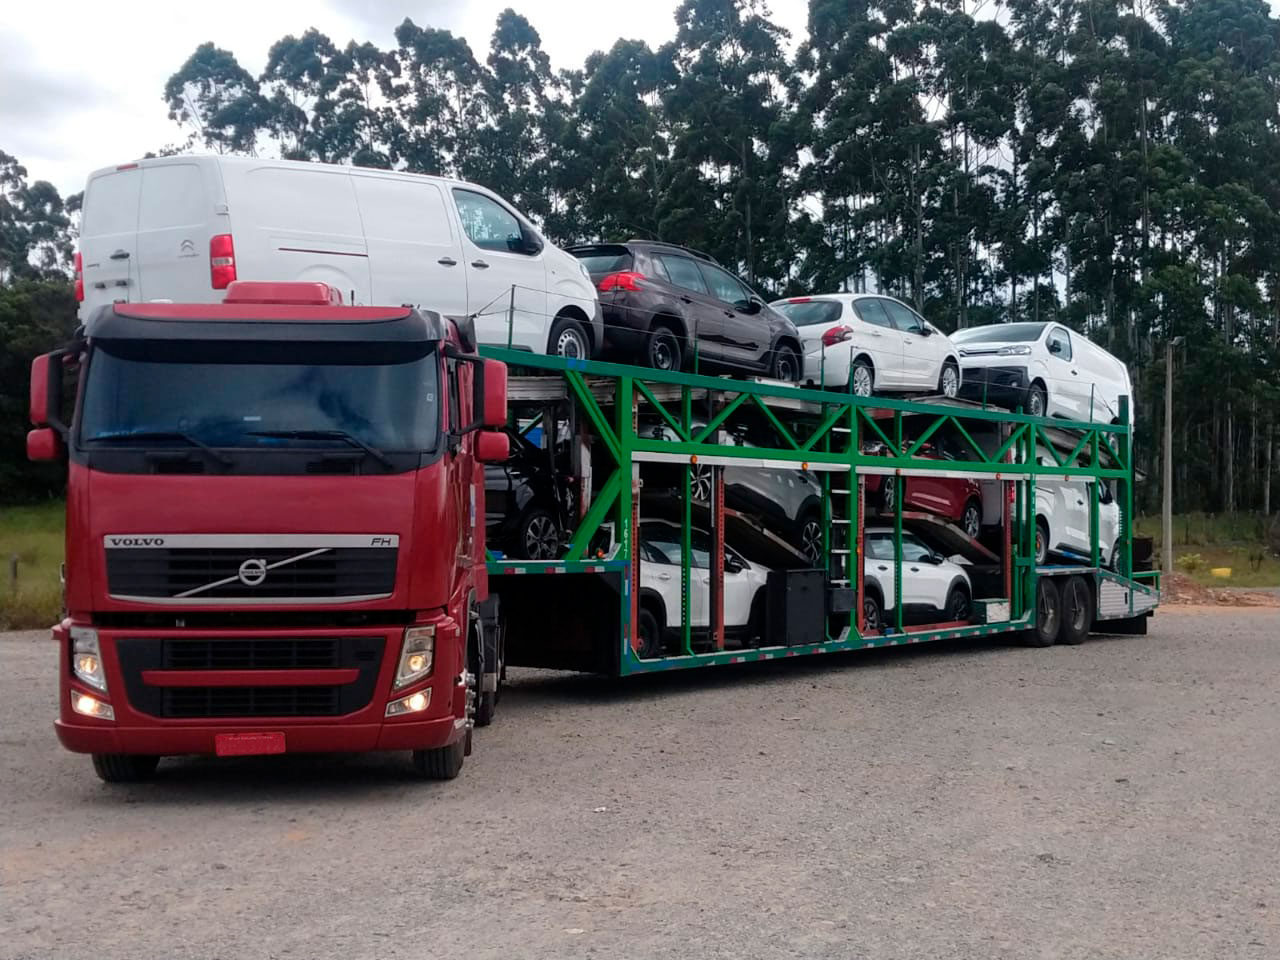
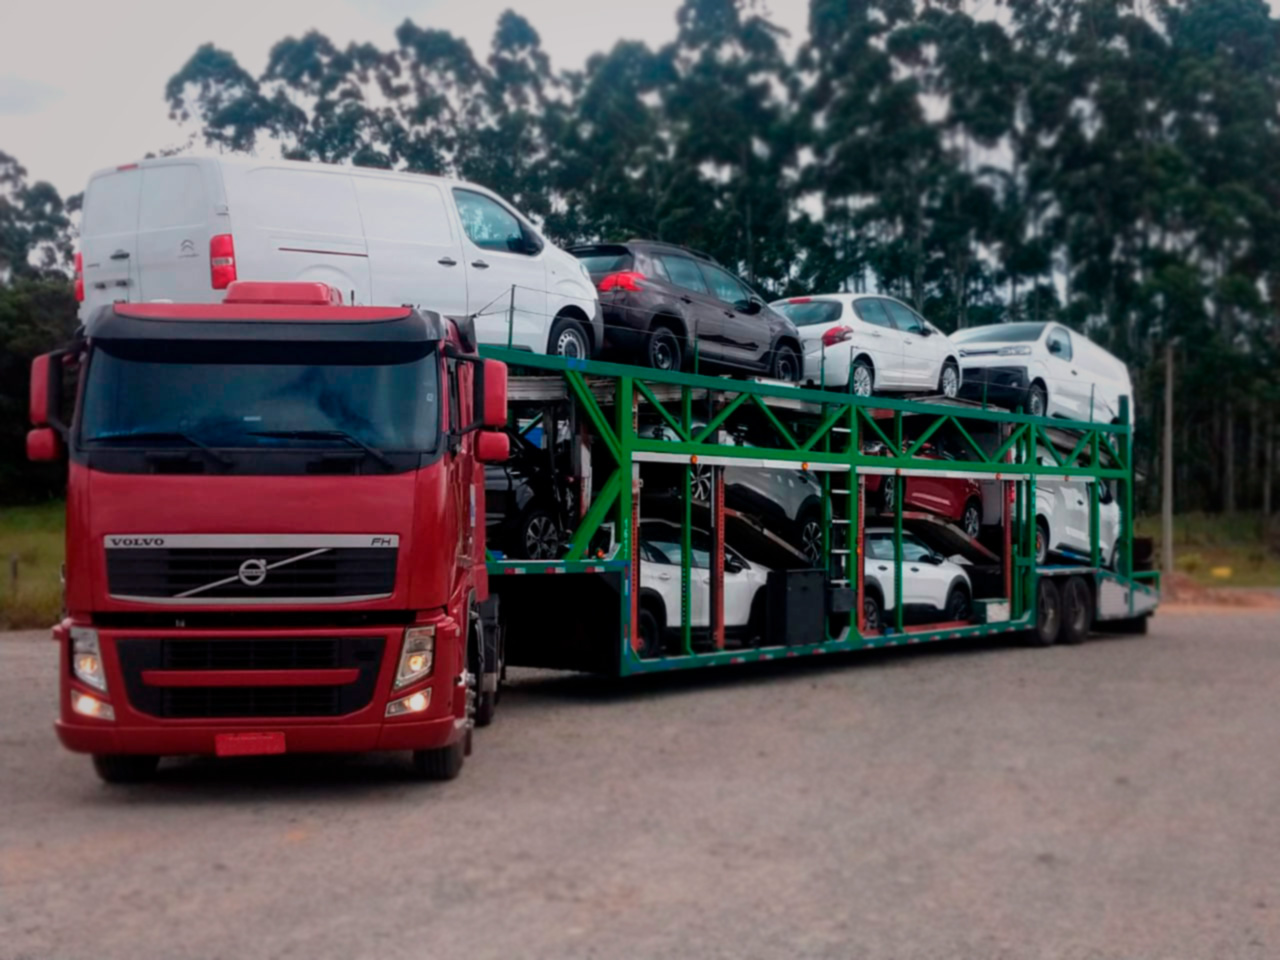
correção imagens

diff --git a/index.html b/index.html
@@ -240,7 +240,7 @@
         <div class="container-fluid">
             <div class="row flex-md-row-reverse">
                 <div class="col-md-6">
-                    <img src="public/img/system.png" alt="">
+                    <img src="public/img/system.jpg" alt="">
                 </div>
                 <div class="col-md-6 d-flex align-items-center">
                     <div class="text-sistema">
